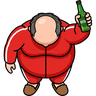
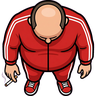
Сигареты вместо пива, дисклеймер на старте и сюжет в меню
Пиво убрано из игры целиком: во дворе теперь курящая компания, которая
зовёт Ярика в курилку. Наступил на приятеля - стрельнул сигарету
(«Стрельнул: N/3»), вечером вместо алкотеста проверка на никотин:
0 сигарет - «Чисто. Ни одной!» и премия, 1-2 - «Пахнет табаком, но
живём», 3 - тест провален, забег с чистого листа. Холодильник ночью
теперь набит едой, спрайт бутылки удалён.

На старте показывается дисклеймер: игра не призывает курить и пить
энергетики, лучше попить воды. Тап закрывает его.

Экран «Как играть» получил блок «Сюжет»: кто такой Ярик, почему он
бросает и при чём тут чистый лист. Фон меню - тёмный лист в линейку.

Тест-стенд проверяет дисклеймер и обновлён под новую терминологию.

diff --git a/test/main_linux.c b/test/main_linux.c
@@ -21,6 +21,7 @@ extern double game_state, t_dir, day, cleaned, goal, craving, over, last_reward;
 extern double willpower, best_day, up_speed, up_bag, up_hold, up_night, up_food;
 extern double hold_cd, bin_x, bin_y, max_craving, btn_w, btn_h, back_y;
 extern double phase, eaten, fridge_x, fridge_y, bed_x, bed_y, drinks, drink_limit, combo;
+extern double splash_on;
 extern DSArray *trash_x, *trash_y, *trash_on;
 extern DSArray *bud_x, *bud_y, *bud_step, *bud_flee, *bud_say, *bud_say_t;
 extern DSArray *food_x, *food_y, *food_on;
@@ -183,6 +184,14 @@ int main(void) {
     }
     script_active = 1;
     if (!run_frames(5)) return 2;
+    /* --- 0. Дисклеймер показывается первым и уходит по тапу --- */
+    if (splash_on != 1) { printf("!! disclaimer is not shown on start\n"); return 3; }
+    shot("00_disclaimer");
+    tap_center();
+    if (!run_frames(5)) return 3;
+    if (splash_on != 0) { printf("!! disclaimer did not close on tap\n"); return 3; }
+    printf("=== disclaimer shown and closed\n");
+
     printf("=== init ok: lobby state %g, willpower %g\n", game_state, willpower);
     shot("01_lobby");
     if (game_state != 0) { printf("!! expected lobby\n"); return 3; }
@@ -205,7 +214,7 @@ int main(void) {
     run_frames(20);
     shot("03_yard");
 
-    /* --- 2a. Наступил на собутыльника - взял у него бутылку --- */
+    /* --- 2a. Наступил на курящего приятеля - стрельнул сигарету --- */
     {
         double taken0 = drinks;
         int got = 0;
@@ -215,8 +224,8 @@ int main(void) {
             if (drinks > taken0) got = 1;
         }
         release_joy();
-        if (!got) { printf("!! stepping on a buddy did not take a bottle\n"); return 3; }
-        printf("=== took a bottle from a buddy: drinks %g\n", drinks);
+        if (!got) { printf("!! stepping on a buddy did not bum a cigarette\n"); return 3; }
+        printf("=== bummed a cigarette from a buddy: smokes %g\n", drinks);
         shot("03b_buddy");
     }
 
@@ -224,10 +233,10 @@ int main(void) {
     printf("=== day 1 done: cleaned %g/%g, drinks %g, reward %g, willpower %g, best %g\n",
            cleaned, goal, drinks, last_reward, willpower, best_day);
     if (best_day != 1 || willpower <= 0) { printf("!! day rewards missing\n"); return 3; }
-    if (drinks < 1) { printf("!! drinks counter reset before the alcohol test\n"); return 3; }
-    if (last_reward != 5) { printf("!! drunk day must not get the sober bonus: %g\n", last_reward); return 3; }
+    if (drinks < 1) { printf("!! smokes counter reset before the nicotine test\n"); return 3; }
+    if (last_reward != 5) { printf("!! smoky day must not get the clean bonus: %g\n", last_reward); return 3; }
     run_frames(2);
-    shot("04_alcotest");
+    shot("04_nicotine_test");
 
     /* --- 3. Ночь: холодильник тянет, еда лечит, кровать спасает --- */
     tap_center();
@@ -325,16 +334,16 @@ int main(void) {
     tap_center();
     if (!wait_state(0, 120)) { printf("!! overeat tap did not return to lobby\n"); return 3; }
 
-    /* --- 8a. Слишком много взял за день - проверка на алкоголь провалена --- */
+    /* --- 8a. Слишком много стрельнул за день - проверка на никотин провалена --- */
     tap_menu_row(0);
-    if (!wait_state(1, 60)) { printf("!! yard did not open for the alcohol test run\n"); return 3; }
-    drinks = drink_limit; /* как будто выпросил три бутылки за день */
+    if (!wait_state(1, 60)) { printf("!! yard did not open for the nicotine test run\n"); return 3; }
+    drinks = drink_limit; /* как будто стрельнул три сигареты за день */
     if (!clean_the_day()) {
-        if (over != 6) { printf("!! failed alcohol test expected, got over=%g\n", over); return 3; }
+        if (over != 6) { printf("!! failed nicotine test expected, got over=%g\n", over); return 3; }
     }
-    if (over != 6) { printf("!! alcohol test not failed (over=%g drinks=%g)\n", over, drinks); return 3; }
-    printf("=== alcohol test failed with %g bottles -> relapse\n", drinks);
-    shot("10b_alcotest_failed");
+    if (over != 6) { printf("!! nicotine test not failed (over=%g drinks=%g)\n", over, drinks); return 3; }
+    printf("=== nicotine test failed with %g cigarettes -> relapse\n", drinks);
+    shot("10b_test_failed");
     tap_center();
     if (!wait_state(0, 120)) { printf("!! failed-test tap did not return to lobby\n"); return 3; }
 

diff --git a/README.md b/README.md
@@ -2,9 +2,9 @@
 
 Игра на джем с темой **«С чистого листа»**.
 
-Ярик Сафонов раньше пил и швырял мусор мимо урны. Однажды он решил завязать.
-Днём он убирает двор и терпит тягу, ночью идёт через тёмную квартиру мимо
-холодильника, забитого пивом, к своей кровати. Сорвался — и всё начинается
+Ярик Сафонов курил семь лет и швырял мусор мимо урны. В понедельник он решил
+завязать. Днём он убирает двор и терпит тягу, ночью идёт через тёмную квартиру
+мимо холодильника к своей кровати. Сорвался — и всё начинается
 заново, с первого дня. Навсегда остаётся только **сила воли**: за неё берутся
 привычки, и качать их можно бесконечно, так что следующая жизнь заходит дальше
 предыдущей.
@@ -15,9 +15,13 @@
 - Android 10–14, `arm64-v8a` и `armeabi-v7a`;
 - Windows, один `Game.exe` с картинками и шрифтом внутри.
 
+На старте игра показывает короткий дисклеймер: она **не призывает курить или
+пить энергетики** - наоборот, она про то, как с этим завязать.
+
 ## Как играть
 
-Каждый круг жизни состоит из дня и ночи.
+Каждый круг жизни состоит из дня и ночи. Сюжет и правила ещё раз расписаны на
+экране **«Как играть»**.
 
 ### День во дворе
 
@@ -25,39 +29,40 @@
 - **Урна** - донеси мусор туда: счётчик «Убрано» растёт, а тяга чуть отпускает.
   Пока в мешке что-то есть и урна близко, вокруг неё горит жёлтое кольцо.
 - **Мешок** ограничен (4 предмета плюс 2 за каждую ступень привычки «Мешок»).
-- По двору шляются **собутыльники** в красных трениках: ходят вразвалочку за
-  Яриком и зовут «по пивку» репликами в облачках. Рядом с ними тяга растёт
-  быстрее.
-- **Наступил на собутыльника - взял у него бутылку.** Счётчик «Взято: N/3»
-  висит в углу, тяга подскакивает, а сам собутыльник обиженно отбегает.
-- **Кнопка «Держись»** сбивает часть тяги и разгоняет всех собутыльников
+- По двору шляются **курящие приятели** в красных трениках: ходят вразвалочку
+  за Яриком и зовут в курилку репликами в облачках («Одну затяжку, чё ты!»).
+  Рядом с ними тяга растёт быстрее.
+- **Наступил на приятеля - стрельнул у него сигарету.** Счётчик
+  «Стрельнул: N/3» висит в углу, тяга подскакивает, а сам приятель обиженно
+  отбегает.
+- **Кнопка «Держись»** сбивает часть тяги и разгоняет всю компанию
   вокруг («Не сегодня!»). У неё есть перезарядка - на кнопке видно, сколько
   секунд осталось.
 - По двору гуляет **кот**: погладил (просто наступил) - «Мур!», и тяга чуть
   отпускает. Раз в шесть секунд.
 - Быстрая уборка подряд даёт **комбо** («Комбо x4!»), а на пятом мусоре подряд
   капает бонусная сила воли.
-- Донёс норму дня - вечером **проверка на алкоголь**: игра считает, сколько
-  бутылок Ярик взял у собутыльников за день.
-  - **0 бутылок** - «Чисто. Ни капли!» и премия +5 к силе воли;
-  - **1-2 бутылки** - «Есть запашок, но живём», обычная награда;
-  - **3 бутылки** - тест провален: значит, пил. Забег обнуляется.
+- Донёс норму дня - вечером **проверка на никотин**: игра считает, сколько
+  сигарет Ярик стрельнул за день.
+  - **0 сигарет** - «Чисто. Ни одной!» и премия +5 к силе воли;
+  - **1-2 сигареты** - «Пахнет табаком, но живём», обычная награда;
+  - **3 сигареты** - тест провален: значит, курил. Забег обнуляется.
 - Прошёл проверку - наступает ночь.
 
 ### Ночь в квартире
 
-- Комната тёмная: слева светится **холодильник**, полный пива, справа стоит
+- Комната тёмная: слева светится **холодильник**, забитый едой, справа стоит
   **кровать**. Задача одна - дойти до кровати.
 - Холодильник **физически тянет Ярика к себе** и тем сильнее, чем выше тяга.
   «Держись» на секунду с небольшим вырывает из этой хватки и сбивает тягу.
-- Дотронулся до холодильника - открыл, выпил, **срыв**.
+- Дотронулся до холодильника - открыл, начался ночной жор, **срыв**.
 - На полу лежит **еда**. Каждая порция сбивает тягу, но съесть можно только
   **шесть** (плюс по одной за ступень привычки «Ужин»). Лишняя порция - срыв
   от обжорства.
 - Дошёл до кровати - **ночь пережита**, наступает следующий день: норма уборки
-  больше, бутылок больше, тяга злее.
+  больше, компании во дворе больше, тяга злее.
 
-У Ярика и собутыльников есть анимация ходьбы (кадры шага, покачивание и
+У Ярика и приятелей есть анимация ходьбы (кадры шага, покачивание и
 «пружинка»), а за удачные действия всплывают надписи и летит конфетти.
 
 Тяга дошла до конца - **срыв** в любое время суток. Забег обрывается, следующий
@@ -66,9 +71,9 @@
 ## Прогресс и привычки
 
 - **Сила воли** капает за каждый донесённый до урны мусор (+1), за комбо, за
-  закрытый день (+5 за каждый прожитый день, плюс 5 за полностью трезвый) и за
+  закрытый день (+5 за каждый прожитый день, плюс 5 за день без сигарет) и за
   пережитую ночь (+4 за день). Срыв её **не отнимает**.
-- **Рекорд** - самый долгий трезвый забег.
+- **Рекорд** - самый долгий забег без срывов.
 - Во вкладке **«Привычки»** сила воли тратится навсегда. Прокачка
   **бесконечная**: у ступеней нет потолка, каждая следующая просто дороже
   предыдущей в 1,45 раза.
@@ -166,7 +171,7 @@ end
 ```text
 game/config.ds    все константы: скорость, тяга, цены привычек
 game/locale.ds    тексты на русском и английском
-game/entities.ds  Ярик, мусор, бутылки и состояние забега
+game/entities.ds  Ярик, мусор, приятели и состояние забега
 game/ui.ds        кнопки, полосы и центрирование текста
 game/menu.ds      лобби, привычки, правила, настройки, сохранение
 game/game.ds      день во дворе и ночь у холодильника, тяга и срывы

diff --git a/test/README.md b/test/README.md
@@ -13,14 +13,15 @@
 
 Сценарий в `test/main_linux.c`:
 
-1. Игра стартует в лобби, прогресс пустой.
+1. На старте показан дисклеймер; тап закрывает его и открывает лобби,
+   прогресс пустой.
 2. Экран «Как играть» открывается и закрывается кнопкой «Назад».
 3. День 1: во дворе лежит мусор, урна и предметы не попадают под кнопки.
-   Наступил на собутыльника - счётчик взятых бутылок вырос.
+   Наступил на курящего приятеля - счётчик стрельнутых сигарет вырос.
 4. Ярик обходит мусор и относит его в урну, пока день не закрыт; по дороге
    жмёт «Держись», если тяга перевалила за 60%.
-5. День закрыт: вечерняя проверка на алкоголь считает взятые бутылки, за
-   «выпитый» день премии за трезвость нет, но награда и рекорд начислены.
+5. День закрыт: вечерняя проверка на никотин считает стрельнутые сигареты, за
+   «прокуренный» день премии нет, но награда и рекорд начислены.
 6. Начинается ночь: холодильник реально притягивает стоящего Ярика, «Держись»
    на секунду вырывает из хватки, порция еды считается и сбивает тягу,
    а кровать закрывает ночь с наградой.
@@ -30,8 +31,8 @@
    не отнимается. Тап возвращает в лобби, новый забег идёт с первого дня.
 10. Второй забег: дойти до холодильника — срыв («Открыл холодильник»).
 11. Третий забег: съесть на порцию больше лимита — срыв («Переел»).
-12. Четвёртый забег: три взятые бутылки — проверка на алкоголь провалена,
-    забег обнуляется.
+12. Четвёртый забег: три стрельнутые сигареты — проверка на никотин
+    провалена, забег обнуляется.
 13. Привычки: пять веток покупаются за силу воли, прокачка бесконечная
     (кроссовки берутся до шестой ступени, цена растёт), и всё это остаётся
     после перезапуска скрипта (`reset()` + повторный `init()` и
